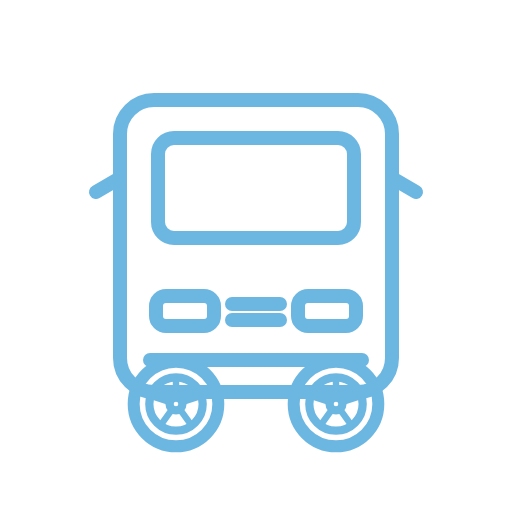
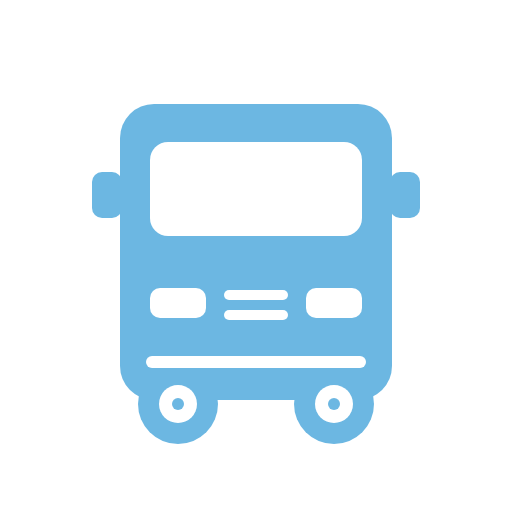
Kamyonet ikonlari v3: dolu siluet (parmakli kasa + dolu lastik/bos jant), referans stili

Changed region(s): [[0.1562, 0.1562, 0.8438, 0.9062]]

diff --git a/_iconsrc_kamyonet/kamyonet-sol.html b/_iconsrc_kamyonet/kamyonet-sol.html
@@ -2,34 +2,40 @@
 <style>html,body{margin:0;padding:0;background:transparent}svg{display:block;width:512px;height:512px}</style></head>
 <body>
 <svg xmlns="http://www.w3.org/2000/svg" viewBox="0 0 512 512">
-  <defs>
-    <g id="wheel" fill="none" stroke="#6cb7e2" stroke-linecap="round">
-      <circle r="46" stroke-width="13"/>   <!-- dış lastik -->
-      <circle r="29" stroke-width="9"/>    <!-- jant -->
-      <circle r="7"  stroke-width="9"/>    <!-- göbek -->
-      <g stroke-width="7">                  <!-- 5 kollu jant -->
-        <line y1="-11" y2="-26"/>
-        <line y1="-11" y2="-26" transform="rotate(72)"/>
-        <line y1="-11" y2="-26" transform="rotate(144)"/>
-        <line y1="-11" y2="-26" transform="rotate(216)"/>
-        <line y1="-11" y2="-26" transform="rotate(288)"/>
-      </g>
-    </g>
-  </defs>
-  <g fill="none" stroke="#6cb7e2" stroke-width="14" stroke-linecap="round" stroke-linejoin="round">
-    <!-- gövde: kabin + yüksek kasa, altta çamurluk arkları -->
-    <path d="M70 314 L70 250 L118 210 L168 210 L168 150 L456 150 L456 314 L444 314
-             A52 52 0 0 1 340 314 L198 314 A52 52 0 0 1 94 314 L70 314 Z"/>
-    <!-- kabin camı -->
-    <path d="M86 248 L116 216 L150 216 L150 248 Z"/>
-    <!-- kabin / kasa ayrımı -->
-    <path d="M168 212 V300"/>
-    <!-- kasa panel dikişi -->
-    <path d="M314 172 V292"/>
-    <!-- far -->
-    <rect x="74" y="284" width="22" height="24" rx="6"/>
-  </g>
-  <use href="#wheel" transform="translate(146,314)"/>
-  <use href="#wheel" transform="translate(392,314)"/>
+  <defs><mask id="m" maskUnits="userSpaceOnUse" x="0" y="0" width="512" height="512">
+    <rect width="512" height="512" fill="#000"/>
+    <!-- kabin (sol) -->
+    <rect x="56" y="172" width="130" height="158" rx="16" fill="#fff"/>
+    <!-- istifli kasa (sağ) -->
+    <rect x="182" y="140" width="274" height="190" rx="10" fill="#fff"/>
+    <!-- şasi -->
+    <rect x="56" y="314" width="400" height="20" rx="6" fill="#fff"/>
+    <!-- kabin camı (boşluk) -->
+    <rect x="72" y="190" width="96" height="58" rx="10" fill="#000"/>
+    <!-- kasa dikey çubukları (boşluk) -->
+    <rect x="204" y="156" width="8" height="160" fill="#000"/>
+    <rect x="230" y="156" width="8" height="160" fill="#000"/>
+    <rect x="256" y="156" width="8" height="160" fill="#000"/>
+    <rect x="282" y="156" width="8" height="160" fill="#000"/>
+    <rect x="308" y="156" width="8" height="160" fill="#000"/>
+    <rect x="334" y="156" width="8" height="160" fill="#000"/>
+    <rect x="360" y="156" width="8" height="160" fill="#000"/>
+    <rect x="386" y="156" width="8" height="160" fill="#000"/>
+    <rect x="412" y="156" width="8" height="160" fill="#000"/>
+    <rect x="438" y="156" width="8" height="160" fill="#000"/>
+    <!-- tekerlek arkları -->
+    <circle cx="130" cy="332" r="48" fill="#000"/>
+    <circle cx="388" cy="332" r="48" fill="#000"/>
+    <!-- lastikler (dolu) -->
+    <circle cx="130" cy="332" r="42" fill="#fff"/>
+    <circle cx="388" cy="332" r="42" fill="#fff"/>
+    <!-- jant boşluğu -->
+    <circle cx="130" cy="332" r="21" fill="#000"/>
+    <circle cx="388" cy="332" r="21" fill="#000"/>
+    <!-- göbek -->
+    <circle cx="130" cy="332" r="7" fill="#fff"/>
+    <circle cx="388" cy="332" r="7" fill="#fff"/>
+  </mask></defs>
+  <rect width="512" height="512" fill="#6cb7e2" mask="url(#m)"/>
 </svg>
 </body></html>

diff --git a/_iconsrc_kamyonet/kamyonet-sag.html b/_iconsrc_kamyonet/kamyonet-sag.html
@@ -2,31 +2,40 @@
 <style>html,body{margin:0;padding:0;background:transparent}svg{display:block;width:512px;height:512px}</style></head>
 <body>
 <svg xmlns="http://www.w3.org/2000/svg" viewBox="0 0 512 512">
-  <defs>
-    <g id="wheel" fill="none" stroke="#6cb7e2" stroke-linecap="round">
-      <circle r="46" stroke-width="13"/>
-      <circle r="29" stroke-width="9"/>
-      <circle r="7"  stroke-width="9"/>
-      <g stroke-width="7">
-        <line y1="-11" y2="-26"/>
-        <line y1="-11" y2="-26" transform="rotate(72)"/>
-        <line y1="-11" y2="-26" transform="rotate(144)"/>
-        <line y1="-11" y2="-26" transform="rotate(216)"/>
-        <line y1="-11" y2="-26" transform="rotate(288)"/>
-      </g>
-    </g>
-  </defs>
-  <g transform="translate(512,0) scale(-1,1)">
-    <g fill="none" stroke="#6cb7e2" stroke-width="14" stroke-linecap="round" stroke-linejoin="round">
-      <path d="M70 314 L70 250 L118 210 L168 210 L168 150 L456 150 L456 314 L444 314
-               A52 52 0 0 1 340 314 L198 314 A52 52 0 0 1 94 314 L70 314 Z"/>
-      <path d="M86 248 L116 216 L150 216 L150 248 Z"/>
-      <path d="M168 212 V300"/>
-      <path d="M314 172 V292"/>
-      <rect x="74" y="284" width="22" height="24" rx="6"/>
-    </g>
-    <use href="#wheel" transform="translate(146,314)"/>
-    <use href="#wheel" transform="translate(392,314)"/>
-  </g>
+  <defs><mask id="m" maskUnits="userSpaceOnUse" x="0" y="0" width="512" height="512">
+    <rect width="512" height="512" fill="#000"/>
+    <!-- kabin (sağ) -->
+    <rect x="326" y="172" width="130" height="158" rx="16" fill="#fff"/>
+    <!-- istifli kasa (sol) -->
+    <rect x="56" y="140" width="274" height="190" rx="10" fill="#fff"/>
+    <!-- şasi -->
+    <rect x="56" y="314" width="400" height="20" rx="6" fill="#fff"/>
+    <!-- kabin camı -->
+    <rect x="344" y="190" width="96" height="58" rx="10" fill="#000"/>
+    <!-- kasa dikey çubukları -->
+    <rect x="66" y="156" width="8" height="160" fill="#000"/>
+    <rect x="92" y="156" width="8" height="160" fill="#000"/>
+    <rect x="118" y="156" width="8" height="160" fill="#000"/>
+    <rect x="144" y="156" width="8" height="160" fill="#000"/>
+    <rect x="170" y="156" width="8" height="160" fill="#000"/>
+    <rect x="196" y="156" width="8" height="160" fill="#000"/>
+    <rect x="222" y="156" width="8" height="160" fill="#000"/>
+    <rect x="248" y="156" width="8" height="160" fill="#000"/>
+    <rect x="274" y="156" width="8" height="160" fill="#000"/>
+    <rect x="300" y="156" width="8" height="160" fill="#000"/>
+    <!-- tekerlek arkları -->
+    <circle cx="124" cy="332" r="48" fill="#000"/>
+    <circle cx="382" cy="332" r="48" fill="#000"/>
+    <!-- lastikler -->
+    <circle cx="124" cy="332" r="42" fill="#fff"/>
+    <circle cx="382" cy="332" r="42" fill="#fff"/>
+    <!-- jant boşluğu -->
+    <circle cx="124" cy="332" r="21" fill="#000"/>
+    <circle cx="382" cy="332" r="21" fill="#000"/>
+    <!-- göbek -->
+    <circle cx="124" cy="332" r="7" fill="#fff"/>
+    <circle cx="382" cy="332" r="7" fill="#fff"/>
+  </mask></defs>
+  <rect width="512" height="512" fill="#6cb7e2" mask="url(#m)"/>
 </svg>
 </body></html>

diff --git a/_iconsrc_kamyonet/kamyonet-arka.html b/_iconsrc_kamyonet/kamyonet-arka.html
@@ -2,35 +2,36 @@
 <style>html,body{margin:0;padding:0;background:transparent}svg{display:block;width:512px;height:512px}</style></head>
 <body>
 <svg xmlns="http://www.w3.org/2000/svg" viewBox="0 0 512 512">
-  <defs>
-    <g id="wheel" fill="none" stroke="#6cb7e2" stroke-linecap="round">
-      <circle r="46" stroke-width="13"/>
-      <circle r="29" stroke-width="9"/>
-      <circle r="7"  stroke-width="9"/>
-      <g stroke-width="7">
-        <line y1="-11" y2="-26"/>
-        <line y1="-11" y2="-26" transform="rotate(72)"/>
-        <line y1="-11" y2="-26" transform="rotate(144)"/>
-        <line y1="-11" y2="-26" transform="rotate(216)"/>
-        <line y1="-11" y2="-26" transform="rotate(288)"/>
-      </g>
-    </g>
-  </defs>
-  <use href="#wheel" transform="translate(176,418) scale(0.92)"/>
-  <use href="#wheel" transform="translate(336,418) scale(0.92)"/>
-  <g fill="none" stroke="#6cb7e2" stroke-width="14" stroke-linecap="round" stroke-linejoin="round">
+  <defs><mask id="m" maskUnits="userSpaceOnUse" x="0" y="0" width="512" height="512">
+    <rect width="512" height="512" fill="#000"/>
+    <!-- lastikler (altta) -->
+    <circle cx="178" cy="416" r="40" fill="#fff"/>
+    <circle cx="334" cy="416" r="40" fill="#fff"/>
     <!-- arka gövde -->
-    <rect x="118" y="92" width="276" height="314" rx="30"/>
-    <!-- çatı çizgisi -->
-    <path d="M118 152 H394"/>
-    <!-- iki kapı ortası -->
-    <path d="M256 152 V406"/>
+    <rect x="118" y="96" width="276" height="312" rx="28" fill="#fff"/>
+    <!-- çatı çizgisi (boşluk) -->
+    <rect x="150" y="126" width="212" height="10" rx="5" fill="#000"/>
+    <!-- kasa dikey çubukları -->
+    <rect x="150" y="150" width="7" height="180" fill="#000"/>
+    <rect x="178" y="150" width="7" height="180" fill="#000"/>
+    <rect x="206" y="150" width="7" height="180" fill="#000"/>
+    <rect x="306" y="150" width="7" height="180" fill="#000"/>
+    <rect x="334" y="150" width="7" height="180" fill="#000"/>
+    <rect x="362" y="150" width="7" height="180" fill="#000"/>
+    <!-- orta kapı ayrımı (kalın) -->
+    <rect x="250" y="140" width="12" height="230" rx="6" fill="#000"/>
     <!-- kapı kolları -->
-    <path d="M230 264 V308"/>
-    <path d="M282 264 V308"/>
+    <rect x="226" y="252" width="10" height="44" rx="5" fill="#000"/>
+    <rect x="276" y="252" width="10" height="44" rx="5" fill="#000"/>
     <!-- stop lambaları -->
-    <rect x="150" y="350" width="42" height="34" rx="8"/>
-    <rect x="320" y="350" width="42" height="34" rx="8"/>
-  </g>
+    <rect x="150" y="350" width="44" height="32" rx="8" fill="#000"/>
+    <rect x="318" y="350" width="44" height="32" rx="8" fill="#000"/>
+    <!-- jant boşlukları -->
+    <circle cx="178" cy="416" r="19" fill="#000"/>
+    <circle cx="334" cy="416" r="19" fill="#000"/>
+    <circle cx="178" cy="416" r="6" fill="#fff"/>
+    <circle cx="334" cy="416" r="6" fill="#fff"/>
+  </mask></defs>
+  <rect width="512" height="512" fill="#6cb7e2" mask="url(#m)"/>
 </svg>
 </body></html>

diff --git a/_iconsrc_kamyonet/kamyonet-on.html b/_iconsrc_kamyonet/kamyonet-on.html
@@ -2,39 +2,32 @@
 <style>html,body{margin:0;padding:0;background:transparent}svg{display:block;width:512px;height:512px}</style></head>
 <body>
 <svg xmlns="http://www.w3.org/2000/svg" viewBox="0 0 512 512">
-  <defs>
-    <g id="wheel" fill="none" stroke="#6cb7e2" stroke-linecap="round">
-      <circle r="46" stroke-width="13"/>
-      <circle r="29" stroke-width="9"/>
-      <circle r="7"  stroke-width="9"/>
-      <g stroke-width="7">
-        <line y1="-11" y2="-26"/>
-        <line y1="-11" y2="-26" transform="rotate(72)"/>
-        <line y1="-11" y2="-26" transform="rotate(144)"/>
-        <line y1="-11" y2="-26" transform="rotate(216)"/>
-        <line y1="-11" y2="-26" transform="rotate(288)"/>
-      </g>
-    </g>
-  </defs>
-  <!-- lastikler (gövdenin arkasında, altta) -->
-  <use href="#wheel" transform="translate(176,404) scale(0.92)"/>
-  <use href="#wheel" transform="translate(336,404) scale(0.92)"/>
-  <g fill="none" stroke="#6cb7e2" stroke-width="14" stroke-linecap="round" stroke-linejoin="round">
+  <defs><mask id="m" maskUnits="userSpaceOnUse" x="0" y="0" width="512" height="512">
+    <rect width="512" height="512" fill="#000"/>
+    <!-- lastikler (altta, dolu + boş jant) -->
+    <circle cx="178" cy="404" r="40" fill="#fff"/>
+    <circle cx="334" cy="404" r="40" fill="#fff"/>
     <!-- kabin gövde -->
-    <rect x="120" y="100" width="272" height="292" rx="34"/>
-    <!-- ön cam -->
-    <rect x="158" y="138" width="196" height="100" rx="16"/>
+    <rect x="120" y="104" width="272" height="296" rx="34" fill="#fff"/>
     <!-- aynalar -->
-    <path d="M120 178 L96 192"/>
-    <path d="M392 178 L416 192"/>
+    <rect x="92" y="172" width="30" height="46" rx="10" fill="#fff"/>
+    <rect x="390" y="172" width="30" height="46" rx="10" fill="#fff"/>
+    <!-- ön cam (boşluk) -->
+    <rect x="150" y="142" width="212" height="94" rx="18" fill="#000"/>
     <!-- farlar -->
-    <rect x="156" y="296" width="58" height="30" rx="10"/>
-    <rect x="298" y="296" width="58" height="30" rx="10"/>
+    <rect x="150" y="288" width="56" height="30" rx="10" fill="#000"/>
+    <rect x="306" y="288" width="56" height="30" rx="10" fill="#000"/>
     <!-- ızgara -->
-    <path d="M232 304 H280"/>
-    <path d="M232 320 H280"/>
-    <!-- tampon -->
-    <path d="M150 360 H362"/>
-  </g>
+    <rect x="224" y="290" width="64" height="10" rx="5" fill="#000"/>
+    <rect x="224" y="310" width="64" height="10" rx="5" fill="#000"/>
+    <!-- tampon yarığı -->
+    <rect x="146" y="356" width="220" height="12" rx="6" fill="#000"/>
+    <!-- jant boşlukları -->
+    <circle cx="178" cy="404" r="19" fill="#000"/>
+    <circle cx="334" cy="404" r="19" fill="#000"/>
+    <circle cx="178" cy="404" r="6" fill="#fff"/>
+    <circle cx="334" cy="404" r="6" fill="#fff"/>
+  </mask></defs>
+  <rect width="512" height="512" fill="#6cb7e2" mask="url(#m)"/>
 </svg>
 </body></html>

diff --git a/_iconsrc_kamyonet/kamyonet-kasa-ici.html b/_iconsrc_kamyonet/kamyonet-kasa-ici.html
@@ -2,21 +2,24 @@
 <style>html,body{margin:0;padding:0;background:transparent}svg{display:block;width:512px;height:512px}</style></head>
 <body>
 <svg xmlns="http://www.w3.org/2000/svg" viewBox="0 0 512 512">
-  <g fill="none" stroke="#6cb7e2" stroke-width="14" stroke-linecap="round" stroke-linejoin="round">
+  <defs><mask id="m" maskUnits="userSpaceOnUse" x="0" y="0" width="512" height="512">
+    <rect width="512" height="512" fill="#000"/>
     <!-- sol açık kapı -->
-    <path d="M150 152 L66 118 L66 424 L150 408 Z"/>
+    <path d="M150 152 L66 116 L66 424 L150 408 Z" fill="#fff"/>
     <!-- sağ açık kapı -->
-    <path d="M362 152 L446 118 L446 424 L362 408 Z"/>
+    <path d="M362 152 L446 116 L446 424 L362 408 Z" fill="#fff"/>
+    <!-- kapı kolları (boşluk) -->
+    <rect x="120" y="270" width="12" height="44" rx="6" fill="#000"/>
+    <rect x="380" y="270" width="12" height="44" rx="6" fill="#000"/>
     <!-- arka açıklık çerçevesi -->
-    <rect x="150" y="150" width="212" height="260" rx="8"/>
-    <!-- iç derinlik (perspektif) -->
-    <rect x="196" y="196" width="120" height="168" rx="6"/>
-    <path d="M150 150 L196 196"/>
-    <path d="M362 150 L316 196"/>
-    <path d="M150 410 L196 364"/>
-    <path d="M362 410 L316 364"/>
-    <!-- iç zemin çizgisi -->
-    <path d="M196 364 H316"/>
-  </g>
+    <rect x="150" y="150" width="212" height="262" rx="10" fill="#fff"/>
+    <!-- iç boşluk (karanlık iç) -->
+    <rect x="178" y="178" width="156" height="206" rx="6" fill="#000"/>
+    <!-- iç arka duvar -->
+    <rect x="210" y="206" width="92" height="150" rx="4" fill="#fff"/>
+    <!-- iç zemin/raf çizgisi -->
+    <rect x="210" y="300" width="92" height="9" fill="#000"/>
+  </mask></defs>
+  <rect width="512" height="512" fill="#6cb7e2" mask="url(#m)"/>
 </svg>
 </body></html>

diff --git a/arac-ikon-kamyonet/onizleme.html b/arac-ikon-kamyonet/onizleme.html
@@ -13,7 +13,7 @@
   .note{font-size:11.5px;color:#64748b;margin-top:20px;border-top:1px dashed #e2e8f0;padding-top:14px}
 </style></head>
 <body><div class="wrap">
-  <h1>Kamyonet İkonları — içi boş (outline) · şeffaf PNG · #6cb7e2</h1>
+  <h1>Kamyonet İkonları — dolu silüet (parmaklıklı kasa) · şeffaf PNG · #6cb7e2</h1>
   <p class="sub">Web ekranında "araç fotoğrafı yükle" alanları için. Damalı zemin = şeffaflık.</p>
   <div class="grid">
     <div class="card"><div class="ph"><img src="kamyonet-on.png"></div><div class="nm">Ön Görünüm</div><div class="fn">kamyonet-on.png</div></div>
